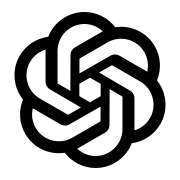
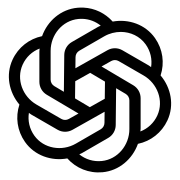
增加midjourney图标

diff --git a/app/components/chat.tsx b/app/components/chat.tsx
@@ -469,7 +469,7 @@ export function ChatActions(props: {
 
     return (
         <div className={styles["chat-input-actions"]}>
-            {couldStop && (
+            {currentModel !== "midjourney" && (<>{couldStop && (
                 <ChatAction
                     onClick={stopAll}
                     text={Locale.Chat.InputActions.Stop}
@@ -534,7 +534,7 @@ export function ChatActions(props: {
                         }
                     });
                 }}
-            />
+            /></>)}
 
             <ChatAction
                 onClick={() => setShowModelSelector(true)}
@@ -1394,6 +1394,8 @@ function _Chat() {
                         placeholder={
                             useImages.length > 0 && mjImageMode != "IMAGINE"
                                 ? Locale.Midjourney.InputDisabled
+                                : session.mask.modelConfig.model.startsWith("midjourney")
+                                ? `${submitKey} 发送，建议使用英文提示词来开始绘画`
                                 : Locale.Chat.Input(submitKey)
                         }
                         onInput={(e) => onInput(e.currentTarget.value)}

diff --git a/app/components/emoji.tsx b/app/components/emoji.tsx
@@ -8,6 +8,7 @@ import { ModelType } from "../store";
 
 import BotIcon from "../icons/bot.svg";
 import BlackBotIcon from "../icons/black-bot.svg";
+import MidjourneyIcon from "../icons/midjourney.svg"
 
 export function getEmojiUrl(unified: string, style: EmojiStyle) {
   return `https://cdn.staticfile.org/emoji-datasource-apple/14.0.0/img/${style}/64/${unified}.png`;
@@ -34,6 +35,8 @@ export function Avatar(props: { model?: ModelType; avatar?: string }) {
       <div className="no-dark">
         {props.model?.startsWith("gpt-4") ? (
           <BlackBotIcon className="user-avatar" />
+        ) : props.model?.startsWith("midjourney") ? (
+          <MidjourneyIcon className="user-avatar" />
         ) : (
           <BotIcon className="user-avatar" />
         )}
